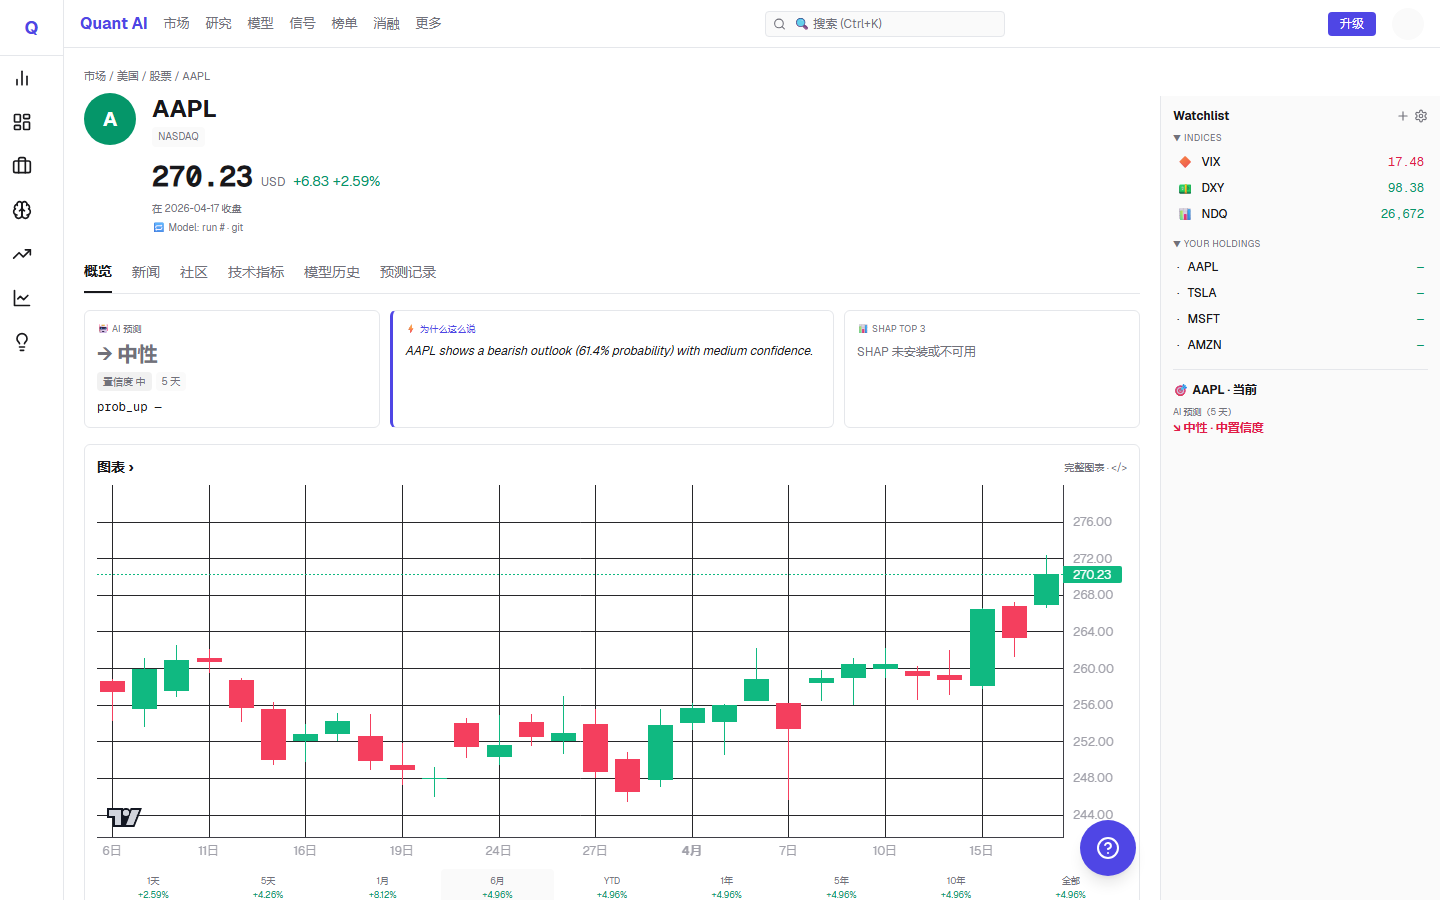
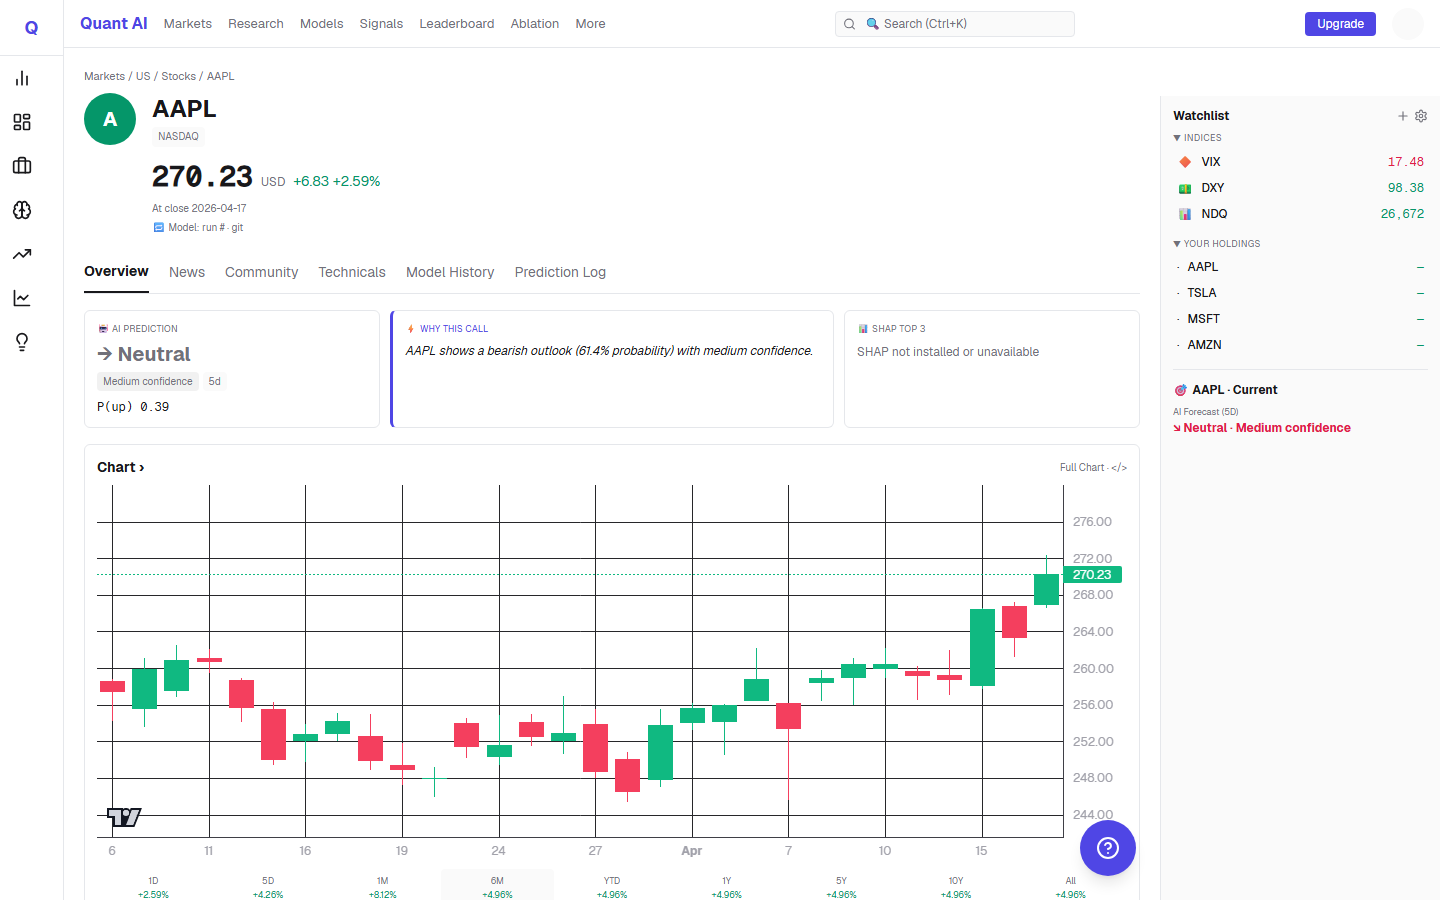
docs: refresh screenshots — English UI, populated AI cards, en-US chart axis
Re-captured after i18n + prob_up fix: English nav/tabs/cards, P(up) now
shows the value, no migration banner. Screenshot script pins locale en-US
and gives agent-backed pages (dashboard/portfolio) longer settle so the
prediction + summary cards are populated.

diff --git a/scripts/capture_screenshots.py b/scripts/capture_screenshots.py
@@ -23,10 +23,12 @@ localStorage.setItem('quant-ai:demo-banner-dismissed', '1');
 
 # (filename, route, settle seconds)
 PAGES = [
-    ("dashboard", "/dashboard?ticker=AAPL", 10),
-    ("portfolio", "/portfolio", 10),
-    ("screener", "/screener", 8),
-    ("leaderboard", "/leaderboard", 8),
+    # dashboard/portfolio call the agents API (model inference) — give them
+    # longer to settle so prediction + summary cards are populated.
+    ("dashboard", "/dashboard?ticker=AAPL", 28),
+    ("portfolio", "/portfolio", 22),
+    ("screener", "/screener", 10),
+    ("leaderboard", "/leaderboard", 10),
 ]
 
 
@@ -41,7 +43,7 @@ with sync_playwright() as p:
     browser = p.chromium.launch()
 
     # Clean page shots (overlays pre-dismissed)
-    ctx = browser.new_context(viewport={"width": 1440, "height": 900})
+    ctx = browser.new_context(viewport={"width": 1440, "height": 900}, locale="en-US")
     ctx.add_init_script(DISMISS_OVERLAYS)
     page = ctx.new_page()
     for name, route, settle in PAGES:
@@ -49,7 +51,7 @@ with sync_playwright() as p:
     ctx.close()
 
     # One shot WITH the first-visit tour visible (it's a selling point)
-    ctx2 = browser.new_context(viewport={"width": 1440, "height": 900})
+    ctx2 = browser.new_context(viewport={"width": 1440, "height": 900}, locale="en-US")
     page2 = ctx2.new_page()
     shoot(page2, "tour", "/screener", 8)
     ctx2.close()
